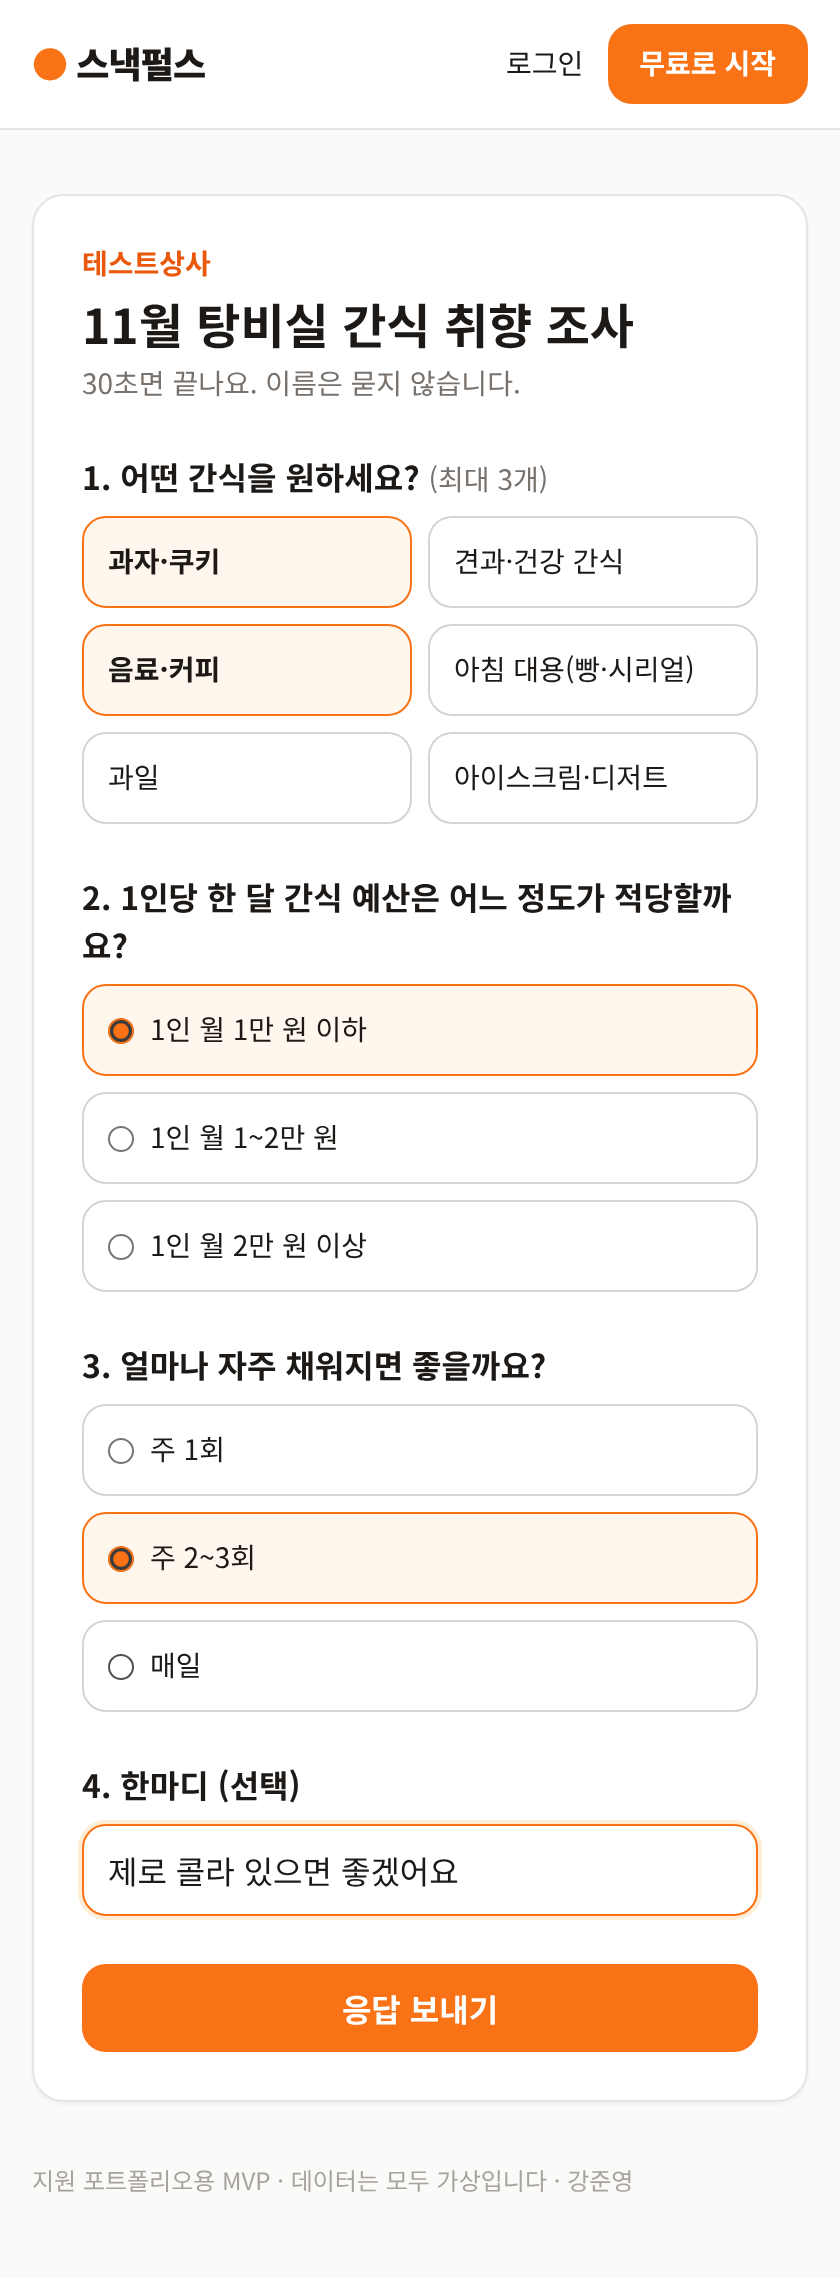
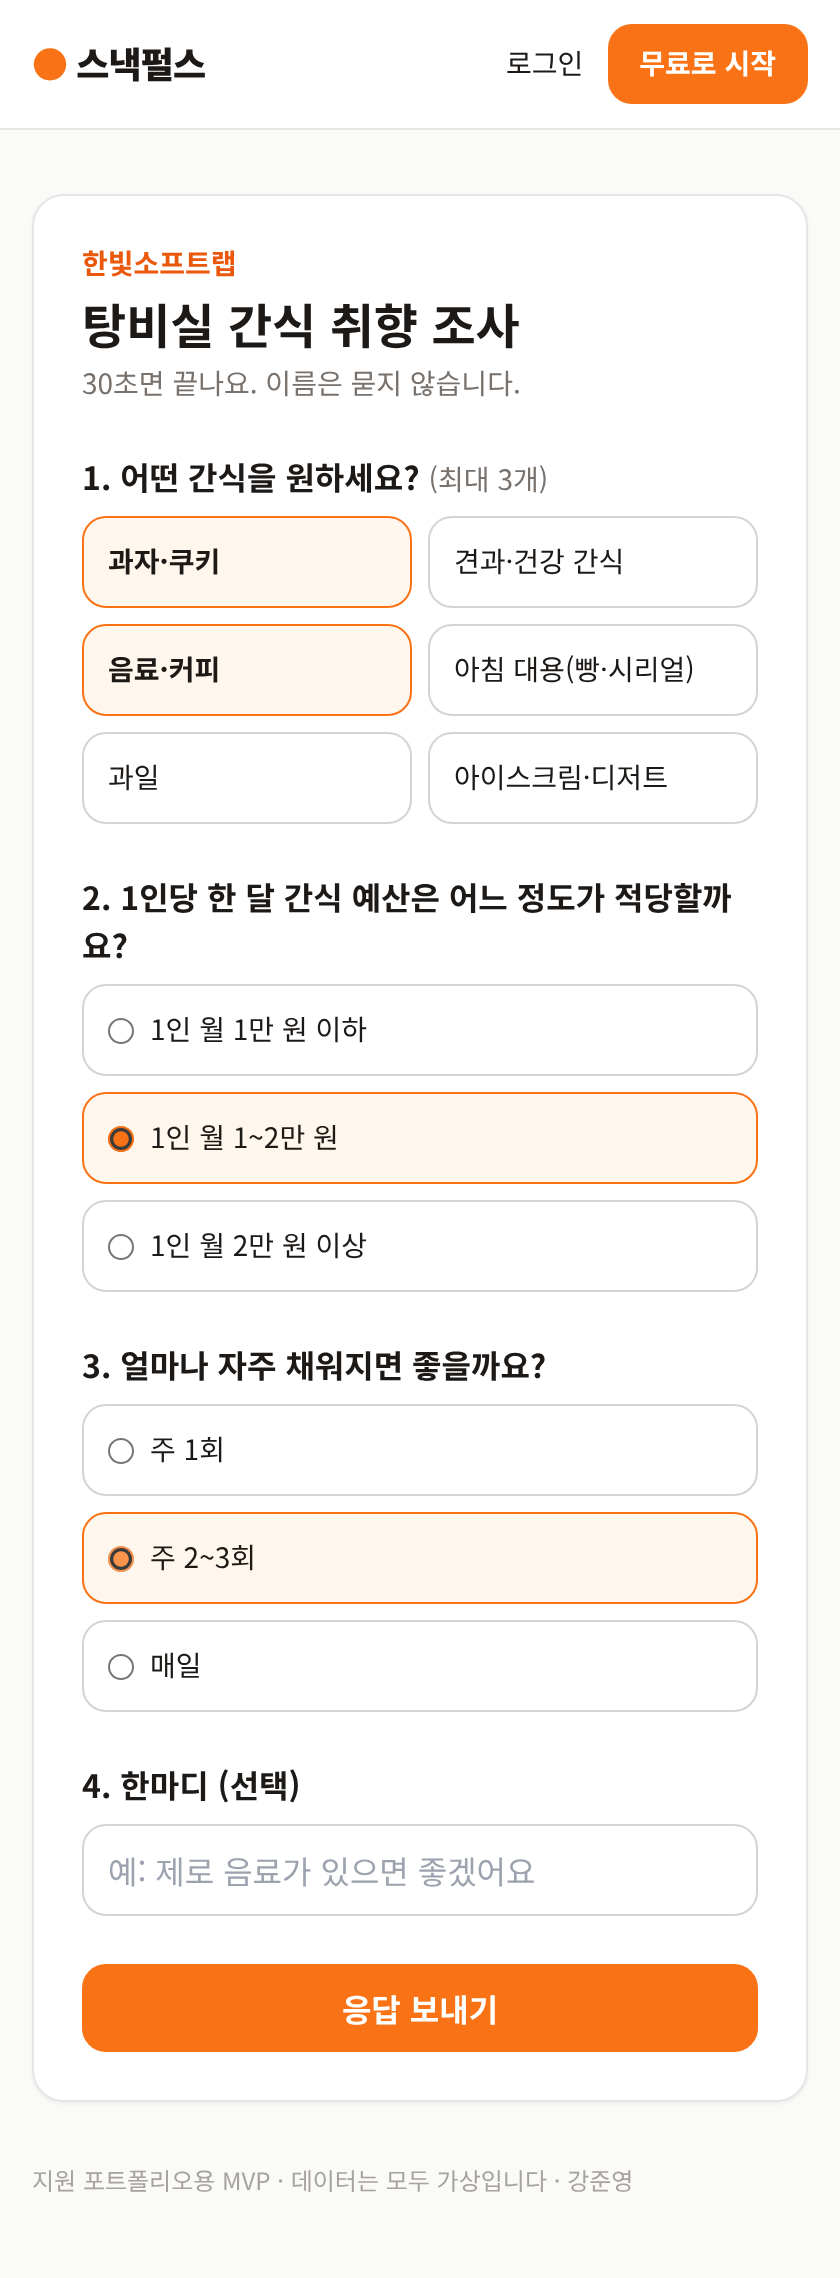
결과 요약 동률 표시 수정, 캡처 갱신

diff --git a/app/dashboard/surveys/[id]/page.tsx b/app/dashboard/surveys/[id]/page.tsx
@@ -22,7 +22,7 @@ export default async function SurveyResult({ params }: { params: Promise<{ id: s
     if (e instanceof AppError) notFound(); // 남의 조사인지 여부도 드러내지 않는다
     throw e;
   }
-  const names = (t: typeof r.categories, list: Parameters<typeof labelOf>[0]) => leaders(t).map((x) => labelOf(list, x.id)).join("·") || "-";
+  const names = (t: typeof r.categories, list: Parameters<typeof labelOf>[0]) => leaders(t).map((x) => labelOf(list, x.id)).join(", ") || "-";
   const top = r.categories[0];
   return (
     <div className="space-y-6">
